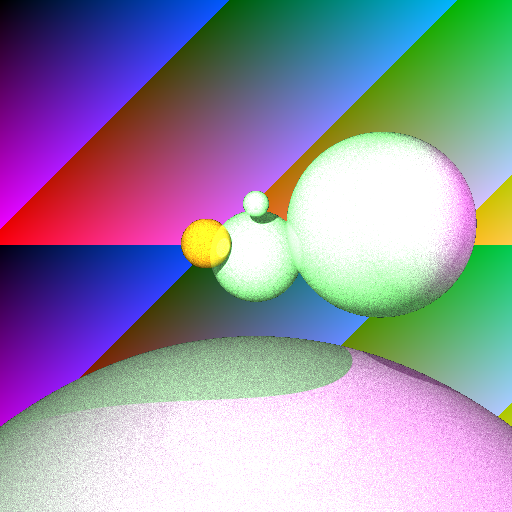
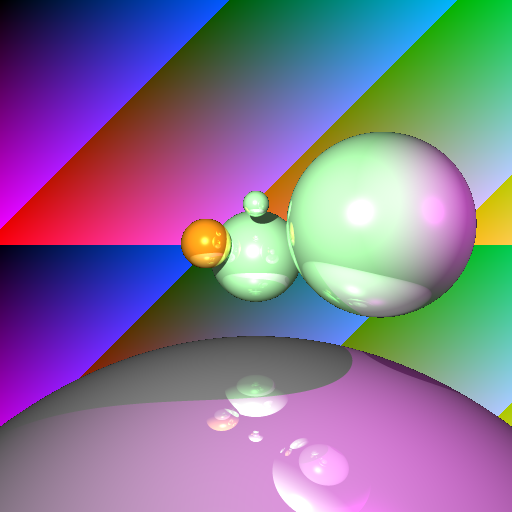
a5 reflection done

diff --git a/A5/A5.cpp b/A5/A5.cpp
@@ -35,7 +35,7 @@ glm::vec3 trace(SceneNode *root, glm::vec3 source, glm::vec3 ray, list<Light *> 
 
 	TAO *ptao = intersect(root, glm::vec4(source, 1), glm::vec4(ray, 0));
 
-	if (!ptao || ptao->node == NULL) return glm::vec3(0.5f, 0.5f, 0.5f);
+	if (!ptao || ptao->node == NULL) return colour;
 
 	glm::vec3 point = source + ptao->tao * ray;
 	glm::vec3 normal = glm::normalize(ptao->n);
@@ -43,7 +43,7 @@ glm::vec3 trace(SceneNode *root, glm::vec3 source, glm::vec3 ray, list<Light *> 
 	PhongMaterial *pmaterial = static_cast<PhongMaterial *>(gnode->m_material);
 	kd = pmaterial->getkd();
 	ks = pmaterial->getks();
-	//double shininess = pmaterial->getsh();
+	double shininess = pmaterial->getsh();
 
 	for (Light *light : lights) {
 		glm::vec3 lightSource = light->position;
@@ -53,21 +53,20 @@ glm::vec3 trace(SceneNode *root, glm::vec3 source, glm::vec3 ray, list<Light *> 
 		TAO *stao = intersect(root, glm::vec4(point, 1), glm::vec4(shadowRay, 0));
 
 		if (!stao || !stao->hit) {
-			//glm::vec3 reflection = glm::normalize(-lightRay + 2.0f * glm::dot(lightRay, normal) * normal);
+			glm::vec3 reflection = glm::normalize(-lightRay + 2.0f * glm::dot(lightRay, normal) * normal);
 			double distance = glm::length(lightSource - point);
 			glm::vec3 intensity = light->colour / (float) (light->falloff[0] + light->falloff[1] * distance + light->falloff[2] * distance * distance);
 			glm::vec3 diffuse = kd * (float) MAX(glm::dot(lightRay, normal), 0.0) * intensity;
-			//glm::vec3 specular =  ks * pow((float) MAX(glm::dot(reflection, glm::normalize(source - point)), 0.0), shininess) * intensity;
-			//colour += diffuse + specular;
-			colour += diffuse;
+			glm::vec3 specular =  ks * pow((float) MAX(glm::dot(reflection, glm::normalize(source - point)), 0.0), shininess) * intensity;
+			colour += diffuse + specular;
 		}
 	}
 
-	glm::vec3 reflectionRay = glm::normalize((point - source) + 2 * MAX(glm::dot((point - source), normal), 0.0) * normal);
+	glm::vec3 reflectionRay = glm::normalize(-(source - point) + 2 * glm::dot((source - point), normal) * normal);
 	glm::vec3 reflection = ks * trace(root, point, (EPS + ptao->tao) * reflectionRay, lights, ambient, depth + 1);
-	//cout << reflection.x << " " << reflection.y << " " << reflection.z << endl;
+	colour += reflection;
 
-	colour += kd * ambient + reflection;
+	if (depth == 0) colour += kd * ambient;
 
 	return colour;
 }
@@ -118,17 +117,17 @@ void A4_Render(
 	for (uint y = 0; y < h; ++y) {
 		for (uint x = 0; x < w; ++x) {
 
-			// GeometryNode *seenNode = NULL;
-			//
-			// glm::vec3 ray = glm::normalize(view + (-1 + 2 * (0.5 + y) / h) * tan(RAD(fovy / 2)) * -up + (-1 + 2 * (0.5 + x)  / w) * tan(RAD(fovy / 2)) * left);
-			//
-			// TAO *ptao = intersect(root, glm::vec4(eye, 1), glm::vec4(ray, 0));
-			//
-			// image(x, y, 0) = 3 * y * 0.7 / h;
-			// image(x, y, 1) = 4 * x * 0.2 / w;
-			// image(x, y, 2) = 5 * (x + y) * 0.9 / (h + w);
-			//
-			// if (!ptao || ptao->node == NULL) continue;
+			GeometryNode *seenNode = NULL;
+
+			glm::vec3 ray = glm::normalize(view + (-1 + 2 * (0.5 + y) / h) * tan(RAD(fovy / 2)) * -up + (-1 + 2 * (0.5 + x)  / w) * tan(RAD(fovy / 2)) * left);
+
+			TAO *ptao = intersect(root, glm::vec4(eye, 1), glm::vec4(ray, 0));
+
+			image(x, y, 0) = 3 * y * 0.7 / h;
+			image(x, y, 1) = 4 * x * 0.2 / w;
+			image(x, y, 2) = 5 * (x + y) * 0.9 / (h + w);
+
+			if (!ptao || ptao->node == NULL) continue;
 
 			glm::vec3 colour = glm::vec3(0);
 
@@ -142,10 +141,6 @@ void A4_Render(
 			image(x, y, 0) = MIN(colour.x / (SAMPLE * SAMPLE), 1.0);
 			image(x, y, 1) = MIN(colour.y / (SAMPLE * SAMPLE), 1.0);
 			image(x, y, 2) = MIN(colour.z / (SAMPLE * SAMPLE), 1.0);
-			// colour += trace(root, eye, ray, lights, ambient, 0);
-			// image(x, y, 0) = MIN(colour.x, 1.0);
-			// image(x, y, 1) = MIN(colour.y, 1.0);
-			// image(x, y, 2) = MIN(colour.z, 1.0);
 
 			if (100 * (y+1) * (x+1) / ((h+1) * (w+1)) > (progress + 10)) {
 				progress += 10;

diff --git a/A5/util.hpp b/A5/util.hpp
@@ -5,7 +5,7 @@
 
 #define EPS 0.00001
 #define SAMPLE 4
-#define MAX_DEPTH 5
+#define MAX_DEPTH 10
 #define MAX(a, b) (a < b ? b : a)
 #define MIN(a, b) (a < b ? a : b)
 #define RAD(a) (a * M_PI / 180)
